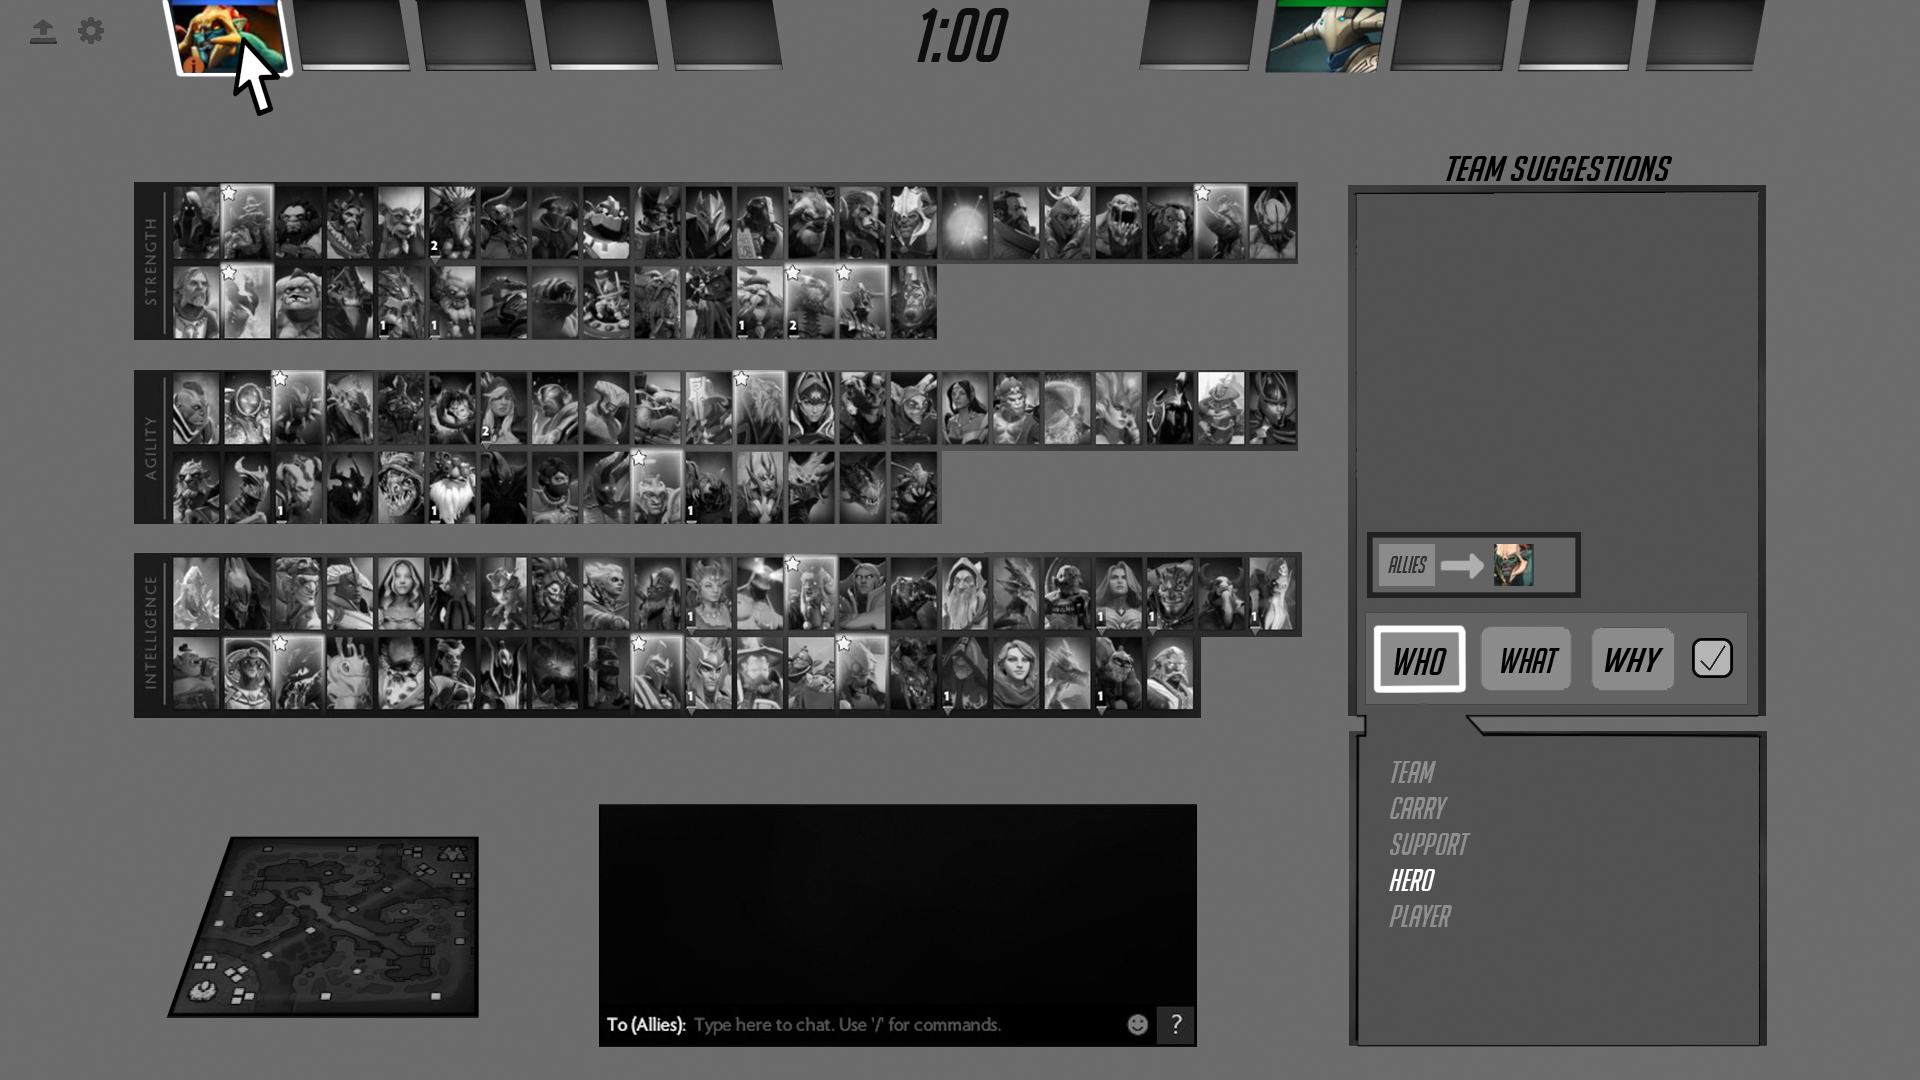
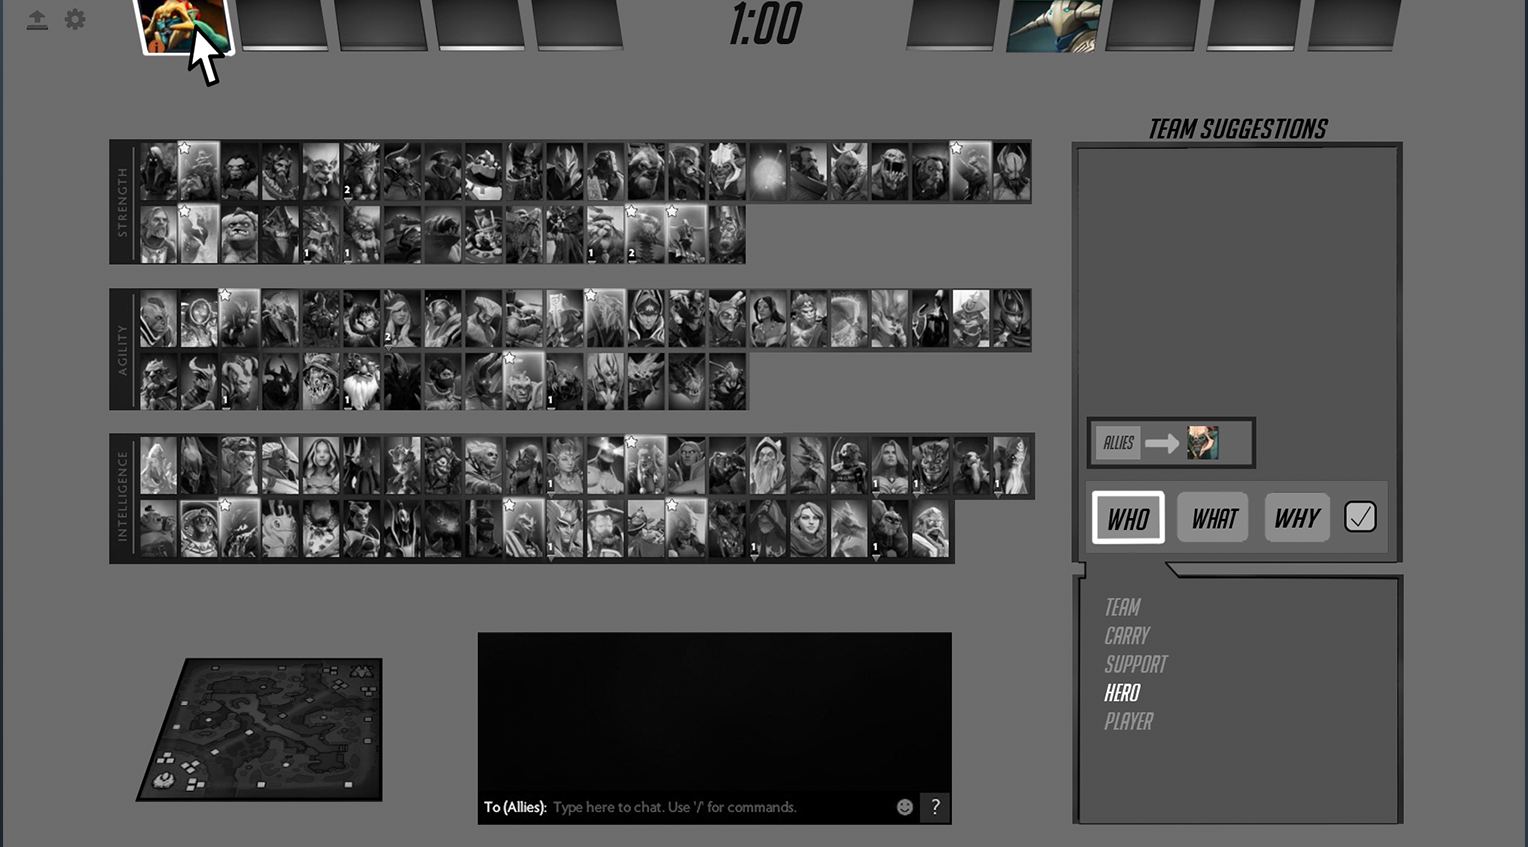
Updated images

diff --git a/index.html b/index.html
@@ -30,6 +30,8 @@
             <h3>Interactive Pool schedule</h3>
             <p class="description">This project was inspired by my experience working as a lifeguard. Schedules for the pool were displayed as a simple grid and people often had trouble understanding them, this lead to frustration among patrons. This design is meant to make it clearer what is scheduled at any time in the pool by using simple controls and a large display that mirrors the appearence of the pool. </p>
             <div class="imageParent">
+                <img src="images/scheduleSunday.png">
+                <img src="images/scheduleMonday.png">
             </div>
         </div>
         
@@ -37,6 +39,8 @@
             <h3>DotA 2 Hero Selection Screen</h3>
             <p class="description">This was a term project for the class Computer Science 481, Human Computer Interaction. The goal of our team was to add features to make hero selection in moba games a more socially positive expericence and redesign the interface. The redesigned interface gives players the ability to communicate strategies at an abstracted level meant to reduce toxic behavior and overcome language barriers. </p>
             <div class="imageParent">
+                <img src="images/dotaProrotype.png">
+                <img src="images/dotaSuggestions.png">
             </div>
         </div>
         
@@ -44,11 +48,11 @@
             <h3>Sol</h3>
             <p class="description">I worked on the game Sol as an artist in the class Computer Science 406, Game Design Workshop, I was the main visual artist for the game. My main roles were to create 3D models and to direct the art style of the game. This game was my first experience working on 3D modeling and animation. </p>
             <div class="imageParent">
-<!--                <img src="images/SolModels.png">-->
-<!--
+                <img src="images/SolModels.png">
+
                 <img src="images/charAnimation.png">
                 <img src="images/houseModeling.png">
--->
+
             </div>
         </div>
         

diff --git a/stylesheets/style.css b/stylesheets/style.css
@@ -72,19 +72,24 @@ h3{
 }
 
 .imageParent{
-    margin: auto;
     text-align: center;
-    width:80%;
+    margin-left:30px;
 }
 
 
 .imageParent img{
-    margin-left:20px;
-    margin-right:20px;
-    margin-top:10px;
+    cursor:pointer;
+    transition: 0.15s ease;
+    filter: grayscale(100%);
     height: 300px;
 }
 
+.imageParent img:hover{
+    transition: 0.15s ease;
+    filter: grayscale(0%);
+}
+
+/*
 .box{
     text-align: center;
     width:220px;
@@ -102,6 +107,7 @@ h3{
     background-color: rgb();
     box-shadow: 0px 0px 33px 0px rgba(0,0,0,0.20);
 }
+*/
 
 .menuItem {
     font-family: 'Roboto Mono', monospace;
